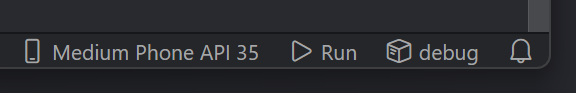
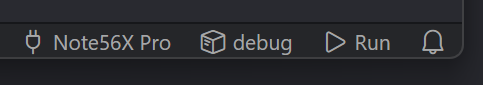
README・スクリーンショット・vscodeignore更新

Changed region(s): [[0.0, 0.0, 0.9627, 0.7529]]

diff --git a/README.md b/README.md
@@ -3,114 +3,94 @@
 <a href="#ja">日本語</a>
 
 Build, install, and run Android & iOS apps directly from VSCode. Includes Device File Explorer.
+Inspired by Flutter's developer experience — status bar device selector, one-click run, and floating toolbar.
 
-![Status Bar](images/statusbar.png)
+## Build & Run
 
-## Features
+Pick a device, select a variant, click Run.
 
-- **Device Selector** — Status bar shows the current device. Click to pick from connected devices or launch an emulator.
+![Status Bar](https://raw.githubusercontent.com/MAJITRUE/MobileRunner/main/images/statusbar.png)
 
-  ![Device Picker](images/device-picker.png)
+The status bar shows your current device, build variant, and run button. Click any item to change it.
 
-- **One-Click Run** — Click `▶ Run` in the status bar to build, install, and launch your app.
-- **Multi-Device** — Run the app on multiple devices at the same time. Each device gets its own logcat Output Channel.
-- **Build Variant Selector** — Shows all variants/schemes from all projects in workspace with project name sections. Remembers last selection per project.
-- **Emulator Cold Boot** — Restart an emulator from scratch without leaving VSCode.
-- **Logcat in Debug Console** — App logs streamed to the Debug Console, filtered by your app's PID.
-- **Floating Toolbar** — Stop and restart your app from the debug toolbar, just like Flutter.
-- **F5 Support** — Press F5 to build & run via `launch.json`.
-- **Auto-detect SDK & JDK** — Finds Android SDK and JDK from environment variables, Android Studio, or common install paths.
-- **Device File Explorer** — Browse, download, upload, and delete files on connected devices. Supports app-private data via `run-as`.
+![Device Picker](https://raw.githubusercontent.com/MAJITRUE/MobileRunner/main/images/device-picker.png)
 
-  ![Device Explorer](images/device-explorer.png)
+The variant picker shows all projects in the workspace with their variants/schemes.
 
-  - Drag & drop upload from VSCode explorer
-  - Click to open files — save to auto-push back to device (works with any editor, including SQLite3 Editor)
-  - Rename, create files/folders, move, copy
-  - Drag & drop within tree to move files on device
-  - File size warning for large files
-  - Cache with configurable expiry (default 7 days)
-  - Independent device selection from build controls
-- **Feature Toggles** — Show/hide individual features (explorer, device selector, build controls, variant selector) in settings.
-- **i18n** — English and Japanese UI.
+![Variant Picker](https://raw.githubusercontent.com/MAJITRUE/MobileRunner/main/images/variant.png)
+
+**Multiple Devices**
+Run on multiple devices simultaneously. Each gets its own log output.
+
+**Floating Toolbar**
+Stop and restart your app from the debug toolbar, just like Flutter.
+
+**F5 Support**
+Press F5 to build and run via `launch.json`.
+
+**Cold Boot & Auto-Boot**
+Restart an emulator from scratch (cold boot). iOS simulators auto-start if shutdown.
+
+**Auto-Detection**
+SDK, JDK, and project root are detected automatically.
+
+## Device File Explorer
+
+Browse, edit, and manage files on connected Android devices from the sidebar.
+
+![Device Explorer](https://raw.githubusercontent.com/MAJITRUE/MobileRunner/main/images/device-explorer.png)
+
+**Open & Auto-Sync**
+Click a file to open. Save to sync changes back to device automatically. Files open with the appropriate VSCode editor (text, image preview, SQLite3 Editor, etc.).
+
+**Drag & Drop**
+Move files within the device tree, or upload from local by dropping onto a folder.
+
+**Multi-Select**
+Shift/Ctrl+Click for batch delete, download, move, copy, and copy path.
+
+**App-Private Data**
+Access databases, shared_prefs, and other private data on debuggable apps.
+
+**Keyboard Shortcuts**
+| Action | Windows | macOS |
+|--------|---------|-------|
+| Rename | F2 | Enter |
+| Delete | Delete | Cmd+Backspace |
+| Reveal in Explorer | Shift+Alt+R | Cmd+Alt+R |
+| Copy Path | Shift+Alt+C | Cmd+Alt+C |
 
 ## Requirements
 
-### Android
-- **Android SDK** with `adb` and `emulator`
-- **Gradle wrapper** (`gradlew` / `gradlew.bat`) in your project root
-- An Android project with `build.gradle` or `build.gradle.kts`
+**Android** — Android SDK (`adb`, `emulator`), Gradle wrapper, `build.gradle` or `build.gradle.kts`
 
-### iOS (macOS only)
-- **Xcode** with Command Line Tools
-- An Xcode project (`.xcodeproj` or `.xcworkspace`)
+**iOS (macOS only)** — Xcode with Command Line Tools, `.xcodeproj` or `.xcworkspace`
 
 ## Quick Start
 
-1. Open an Android project folder in VSCode
-2. The status bar shows your connected device (or "No Device")
-3. Click the device name to select a device or launch an emulator
-4. Click **▶ Run** to build and run
+1. Open a project folder in VSCode
+2. Click the device name in the status bar to select a device
+3. Click **▶ Run** to build and run
 
-## Status Bar
-
-```
-[📱 Pixel 7] [📦 debug] [▶ Run]
-```
-
-| Item | Description |
-|------|-------------|
-| `📱 Pixel 7` | Selected device. Click to open device picker. |
-| `📦 debug` | Current build variant/scheme. Click to select from all projects. |
-| `▶ Run` | Build, install, and launch. Shows spinner during build. |
-| `⬜ Stop` | Stop the app on the selected device. Visible only while running. |
-
-## Extension Settings
+## Settings
 
 | Setting | Default | Description |
 |---------|---------|-------------|
-| `native-runner.projectSearchDepth` | `2` | Max subdirectory depth to search for Android/iOS projects. |
-| `native-runner.sdkPath` | `""` | Path to Android SDK. Auto-detected if empty. |
-| `native-runner.javaHome` | `""` | Path to JDK. Auto-detected if empty. |
-| `native-runner.appModule` | `"app"` | App module name (e.g., `app`, `mobile`, `wear`). |
-| `native-runner.buildVariant` | `"debug"` | Default build variant. Overridden by variant selector. |
-| `native-runner.autoSelectDevice` | `true` | Auto-select a device when one connects. |
-| `native-runner.showDeviceExplorer` | `true` | Show Device File Explorer in the sidebar. |
-| `native-runner.showDeviceSelector` | `true` | Show device selector in the status bar. |
-| `native-runner.showBuildControls` | `true` | Show Build/Run/Stop controls in the status bar. |
-| `native-runner.showVariantSelector` | `true` | Show build variant selector in the status bar. |
-| `native-runner.explorerFileSizeLimit` | `10` | File size limit (MB) for open/download warnings. 0 to disable. |
-| `native-runner.explorerCacheDays` | `7` | Days to keep cached files from Device Explorer. 0 to disable. |
+| `projectSearchDepth` | `2` | Max depth to search for projects in subdirectories |
+| `sdkPath` | `""` | Android SDK path (auto-detected) |
+| `javaHome` | `""` | JDK path (auto-detected) |
+| `buildVariant` | `"debug"` | Default build variant |
+| `autoSelectDevice` | `true` | Auto-select device on connect |
 
-## Commands
-
-| Command | Description |
-|---------|-------------|
-| `Native Runner: Select Device` | Open the device picker |
-| `Native Runner: Select Build Variant / Scheme` | Open the variant picker |
-| `Native Runner: Build, Install & Run` | Build and run the app |
-| `Native Runner: Stop App` | Stop the running app |
-| `Native Runner: Filter Log` | Filter logcat output by text |
-| `Native Runner: Select Explorer Device` | Pick device for file explorer |
-| `Native Runner: Download from Device` | Download file/folder from device |
-| `Native Runner: Upload to Device` | Upload files to device |
-| `Native Runner: New Folder` | Create folder on device |
-| `Native Runner: New File` | Create empty file on device |
-| `Native Runner: Rename` | Rename file/folder on device |
-| `Native Runner: Move To...` | Move file/folder to another location on device |
-| `Native Runner: Copy To...` | Copy file/folder to another location on device |
-| `Native Runner: Reveal in File Explorer` | Open cached file in OS file manager |
-| `Native Runner: Clear Cache` | Clear local file cache |
+All settings are prefixed with `native-runner.`. Additional settings for feature toggles (`showDeviceExplorer`, `showDeviceSelector`, `showBuildControls`, `showVariantSelector`) and file explorer (`explorerFileSizeLimit`, `explorerCacheDays`) are available in VSCode settings.
 
 ## F5 / launch.json
-
-Add to `.vscode/launch.json`:
 
 ```json
 {
   "type": "native-runner",
   "request": "launch",
-  "name": "Android Build & Run"
+  "name": "Build & Run"
 }
 ```
 
@@ -124,57 +104,75 @@ MIT
 
 <h2 id="ja">日本語</h2>
 
-VSCode から Android / iOS アプリをビルド・インストール・実行。Device File Explorer 搭載。
+VSCode から Android / iOS ネイティブアプリをビルド・実行できる拡張機能。Device File Explorer 搭載。
+Flutter の開発者エクスペリエンス — ステータスバーでのデバイス選択、ワンクリック実行、フローティングツールバーからインスピレーションを受けています。
 
-![ステータスバー](images/statusbar.png)
+## ビルド & 実行
 
-## 機能
+デバイスを選んで、バリアントを選んで、実行。
 
-- **デバイス選択** — ステータスバーに現在のデバイスを表示。クリックでデバイス選択やエミュレーター起動。
+![ステータスバー](https://raw.githubusercontent.com/MAJITRUE/MobileRunner/main/images/statusbar.png)
 
-  ![デバイスピッカー](images/device-picker.png)
+ステータスバーにデバイス・ビルドバリアント・実行ボタンを表示。クリックで切り替え。
 
-- **ワンクリック実行** — ステータスバーの `▶ Run` でビルド・インストール・起動。
-- **マルチデバイス** — 複数デバイスで同時にアプリを実行。デバイスごとに独立したLogcat出力。
-- **ビルドバリアント選択** — ワークスペース内の全プロジェクトのバリアント/スキームをプロジェクト名付きで表示。前回の選択を記憶。
-- **エミュレーターコールドブート** — VSCodeからエミュレーターを再起動。
-- **Debug ConsoleにLogcat** — PIDフィルター付きでアプリログをDebug Consoleに表示。
-- **フローティングツールバー** — Flutterと同様のデバッグツールバーで停止・再起動。
-- **F5対応** — `launch.json` でF5キーからビルド＆実行。
-- **SDK・JDK自動検出** — 環境変数、Android Studio、一般的なパスから自動検出。
-- **Device File Explorer** — デバイスのファイルをブラウズ・ダウンロード・アップロード・削除。`run-as` でアプリのプライベートデータにもアクセス。
+![デバイスピッカー](https://raw.githubusercontent.com/MAJITRUE/MobileRunner/main/images/device-picker.png)
 
-  ![デバイスエクスプローラー](images/device-explorer.png)
+バリアントピッカーはワークスペース内の全プロジェクトをプロジェクト名付きで表示。
 
-  - VSCodeエクスプローラーからドラッグ&ドロップでアップロード
-  - クリックでファイルを開く — 保存時にデバイスへ自動書き戻し（SQLite3 Editor等のカスタムエディタも対応）
-  - リネーム、ファイル/フォルダー新規作成、移動、コピー
-  - デバイス内ドラッグ&ドロップでファイル移動
-  - Shift/Ctrl+クリックで複数選択（一括削除・ダウンロード・移動・コピー）
-  - エクスプローラーで表示（Shift+Alt+R）、パスコピー（Shift+Alt+C）
-  - キャッシュ管理（ツールバーからクリア、デフォルト7日で自動削除）
-  - スペース・日本語ファイル名対応
-  - ビルド用セレクターとは独立したデバイス選択
-- **Feature Toggles** — 設定で各機能の表示ON/OFF。
-- **多言語対応** — 英語・日本語UI。
+![バリアントピッカー](https://raw.githubusercontent.com/MAJITRUE/MobileRunner/main/images/variant.png)
+
+**複数デバイス同時実行**
+複数デバイスで同時にアプリを実行。デバイスごとに独立したログ出力。
+
+**フローティングツールバー**
+Flutterと同様のデバッグツールバーで停止・再起動。
+
+**F5対応**
+`launch.json` でF5キーからビルド＆実行。
+
+**コールドブート & 自動起動**
+エミュレーターを初期状態から再起動（コールドブート）。iOSシミュレーターは終了時に自動起動。
+
+**自動検出**
+SDK・JDK・プロジェクトルートを自動検出。
+
+## Device File Explorer
+
+サイドバーからAndroidデバイスのファイルを操作。
+
+![デバイスエクスプローラー](https://raw.githubusercontent.com/MAJITRUE/MobileRunner/main/images/device-explorer.png)
+
+**ファイルを開いて自動反映**
+ファイルをクリックして開く。保存するとデバイスに自動反映。テキスト、画像プレビュー、SQLite3 Editor等、VSCodeのエディタに対応。
+
+**ドラッグ&ドロップ**
+デバイス内でファイルを移動。ローカルからフォルダにドロップしてアップロード。
+
+**複数選択**
+Shift/Ctrl+クリックで一括削除・ダウンロード・移動・コピー・パスコピー。
+
+**アプリのプライベートデータ**
+デバッグ可能なアプリのdatabases、shared_prefs等にアクセス。
+
+**ショートカット**
+| 操作 | Windows | macOS |
+|------|---------|-------|
+| リネーム | F2 | Enter |
+| 削除 | Delete | Cmd+Backspace |
+| エクスプローラーで表示 | Shift+Alt+R | Cmd+Alt+R |
+| パスコピー | Shift+Alt+C | Cmd+Alt+C |
 
 ## 必要条件
 
-### Android
-- **Android SDK**（`adb` と `emulator`）
-- プロジェクトルートに **Gradle wrapper**（`gradlew` / `gradlew.bat`）
-- `build.gradle` または `build.gradle.kts` を含むAndroidプロジェクト
+**Android** — Android SDK（`adb`、`emulator`）、Gradle wrapper、`build.gradle` または `build.gradle.kts`
 
-### iOS（macOSのみ）
-- **Xcode**（Command Line Tools含む）
-- Xcodeプロジェクト（`.xcodeproj` または `.xcworkspace`）
+**iOS（macOSのみ）** — Xcode（Command Line Tools含む）、`.xcodeproj` または `.xcworkspace`
 
 ## クイックスタート
 
-1. VSCodeでAndroidプロジェクトフォルダーを開く
-2. ステータスバーに接続中のデバイスが表示される（または「No Device」）
-3. デバイス名をクリックしてデバイスを選択またはエミュレーターを起動
-4. **▶ Run** をクリックしてビルド＆実行
+1. VSCodeでプロジェクトフォルダーを開く
+2. ステータスバーのデバイス名をクリックしてデバイスを選択
+3. **▶ Run** をクリックしてビルド＆実行
 
 ## ライセンス
 
